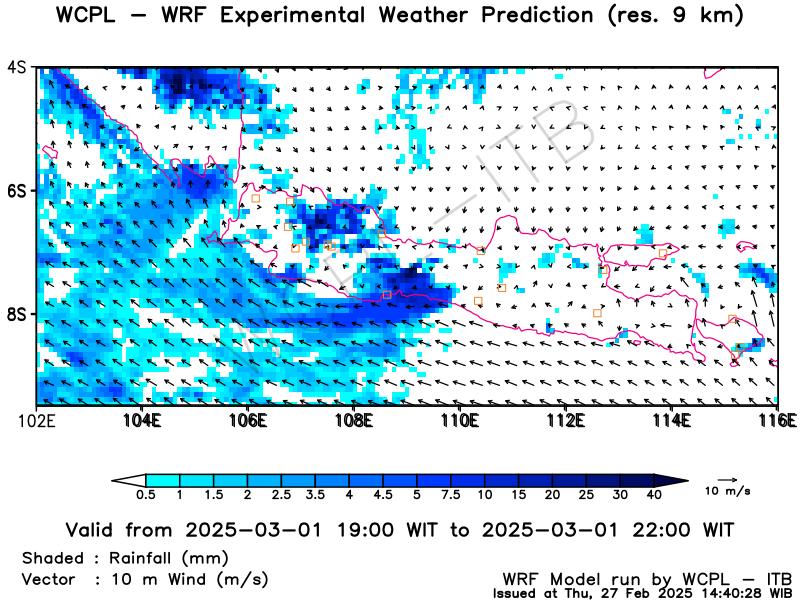
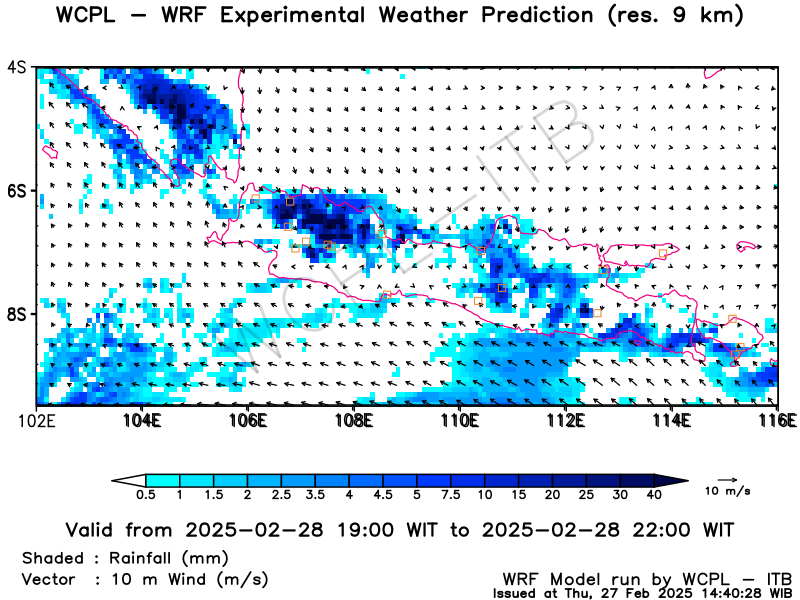
first commit

diff --git a/main.py b/main.py
@@ -3,7 +3,7 @@ import cv2
 import csv
 from datetime import datetime, timedelta
 
-date=datetime.now()+timedelta(days=2)
+date=datetime.now()+timedelta(days=1)
 date=date.strftime("%Y%m%d")
 time_list=[1,4,7,10,13,16,19,22]
 
